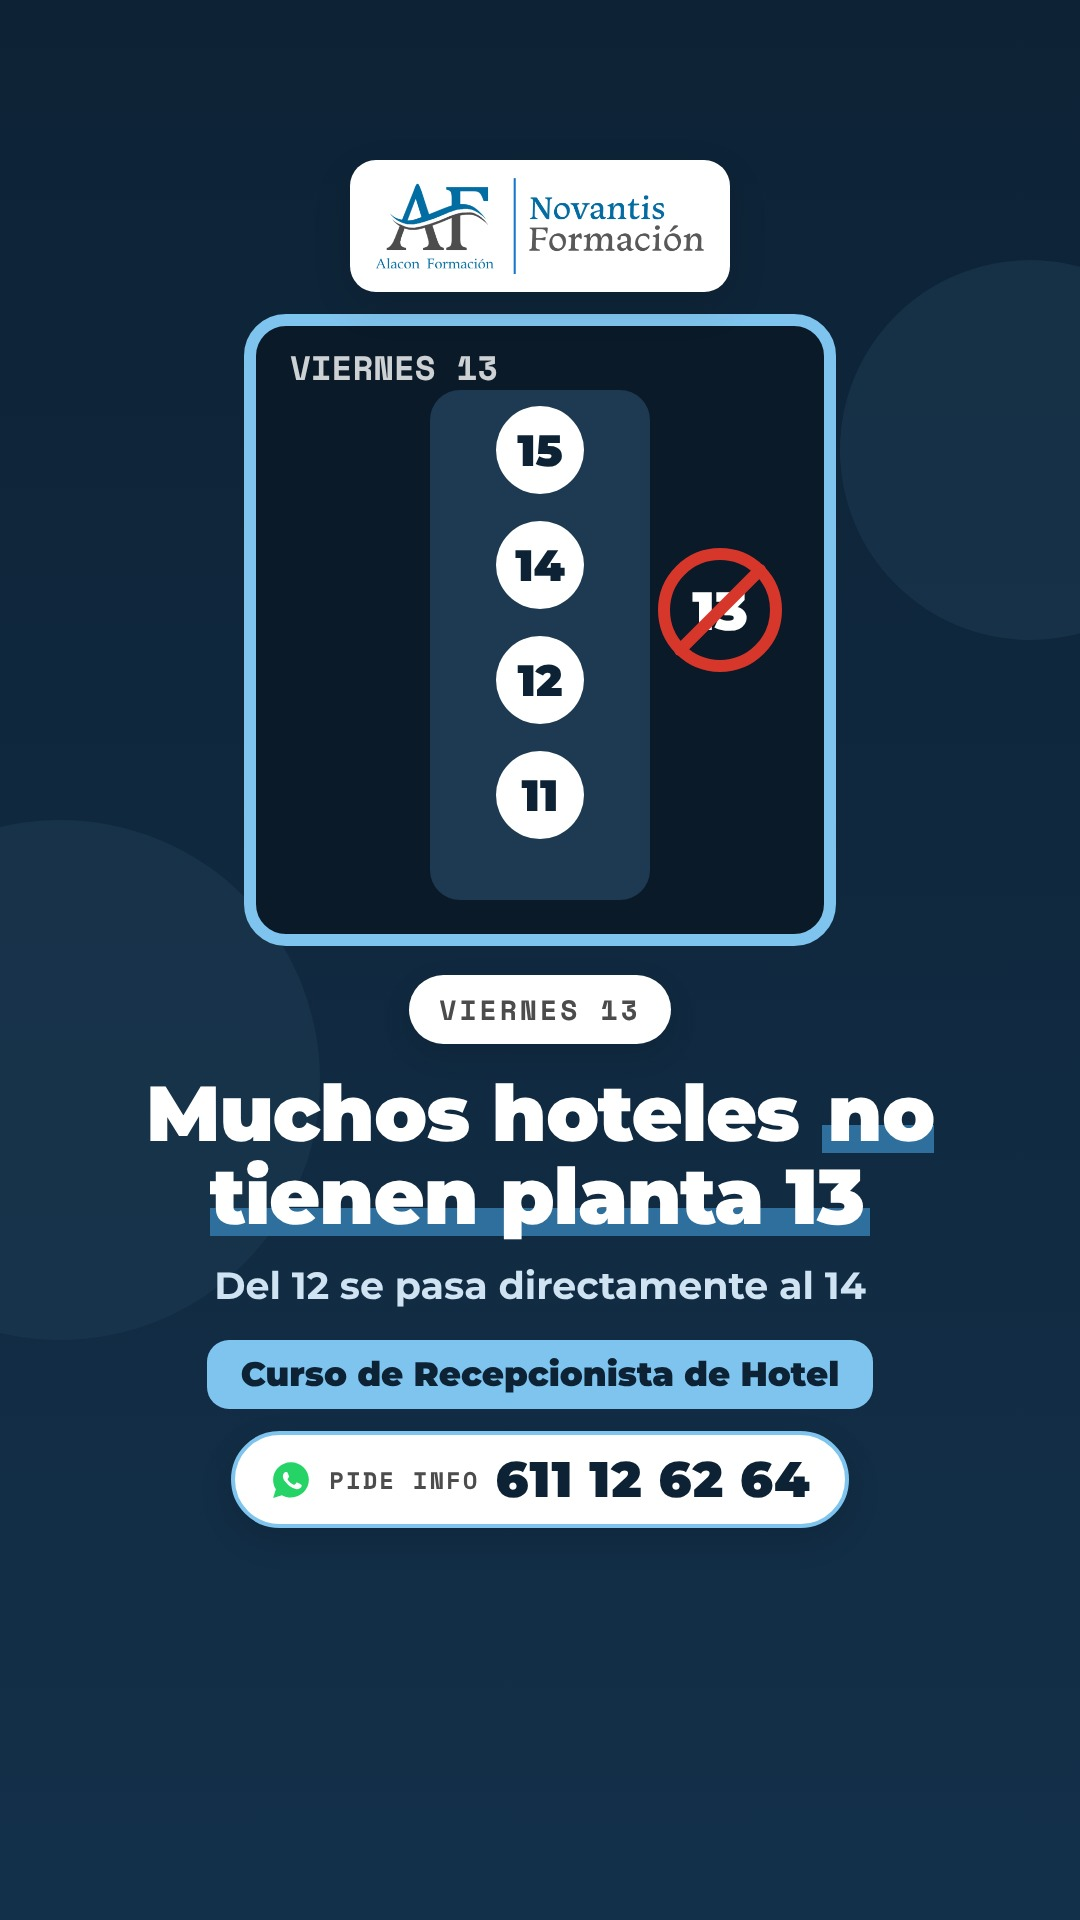
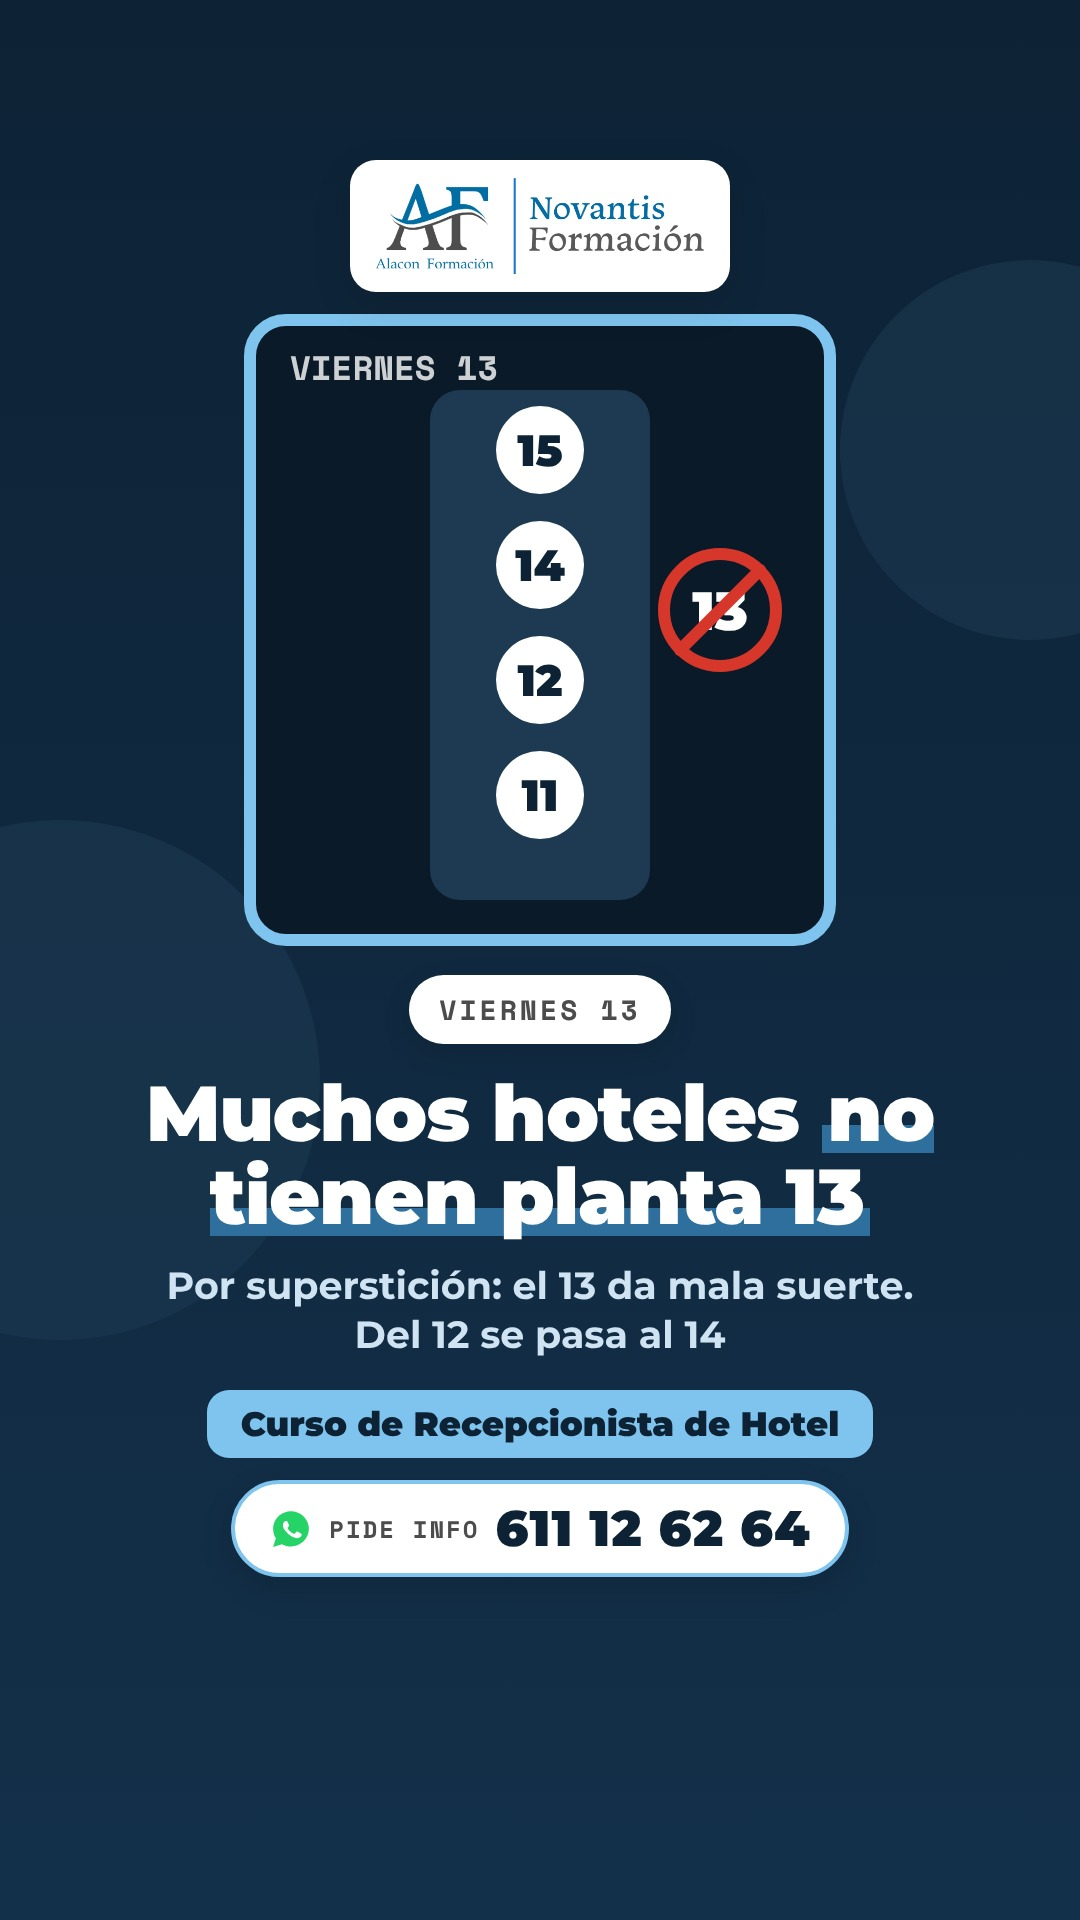
Viernes 13: explicación de la superstición. Historias del 4 al 15 de noviembre aprobadas
Claude-Session: https://claude.ai/code/session_01SnWULSeimGG9wnx49MA5iz

Changed region(s): [[0.1528, 0.6562, 0.8556, 0.8438]]

diff --git a/disenos/semana-2026-11-09/2026-11-13-planta-13.html b/disenos/semana-2026-11-09/2026-11-13-planta-13.html
@@ -42,7 +42,7 @@ body { font-family: "Montserrat", sans-serif; color: #FFFFFF; position: relative
 <div class="logo"><img src="../assets/logo-alacon-novantis.png" alt="Alacon Formación × Novantis Formación"></div>
 <div class="bloque"><div class="kicker"><span class="chip"><span>Viernes 13</span></span></div>
 <div class="titular">Muchos hoteles <span class="marca">no tienen planta 13</span></div>
-<div class="nota">Del 12 se pasa directamente al 14</div>
+<div class="nota">Por superstición: el 13 da mala suerte.<br>Del 12 se pasa al 14</div>
 <div class="curso"><span>Curso de Recepcionista de Hotel</span></div>
 <div class="wa"><svg width="44" height="44" viewBox="0 0 32 32" aria-hidden="true"><path fill="#25D366" d="M16 3C8.8 3 3 8.7 3 15.8c0 2.5.7 4.9 2 7L3 29l6.4-2c2 1.1 4.3 1.7 6.6 1.7 7.2 0 13-5.7 13-12.8S23.2 3 16 3z"/><path fill="#fff" d="M22.6 18.9c-.3-.2-1.9-.9-2.2-1-.3-.1-.5-.2-.7.2-.2.3-.8 1-1 1.2-.2.2-.4.2-.7.1-.3-.2-1.4-.5-2.6-1.6-1-.9-1.6-1.9-1.8-2.2-.2-.3 0-.5.1-.7l.5-.6c.2-.2.2-.4.3-.6.1-.2 0-.4 0-.6l-1-2.4c-.3-.6-.5-.5-.7-.5h-.6c-.2 0-.6.1-.9.4-.3.3-1.2 1.1-1.2 2.8 0 1.6 1.2 3.2 1.4 3.4.2.2 2.4 3.6 5.8 5 2.8 1.1 3.4.9 4 .8.6-.1 1.9-.8 2.2-1.5.3-.8.3-1.4.2-1.5-.1-.2-.3-.3-.6-.4z"/></svg><span>Pide info</span><b>611 12 62 64</b></div></div>
 </body></html>

diff --git a/herramientas/historia_color.py b/herramientas/historia_color.py
@@ -241,7 +241,7 @@ SEMANA_2 = [
          curso="Curso de Auxiliar de Enfermería"),
     dict(fecha="2026-11-13", tema="planta-13", paleta="noche", ilu=ilu_ascensor,
          kicker="Viernes 13", titular='Muchos hoteles <span class="marca">no tienen planta 13</span>',
-         nota="Del 12 se pasa directamente al 14", curso="Curso de Recepcionista de Hotel"),
+         nota="Por superstición: el 13 da mala suerte.<br>Del 12 se pasa al 14", curso="Curso de Recepcionista de Hotel"),
     dict(fecha="2026-11-14", tema="diabetes", paleta="marca", ilu=ilu_insulina,
          kicker="Día Mundial de la Diabetes", titular='Hoy nació <span class="marca">el padre de la insulina</span>',
          nota="Frederick Banting nació un 14 de noviembre", curso="Curso de Auxiliar de Enfermería"),
